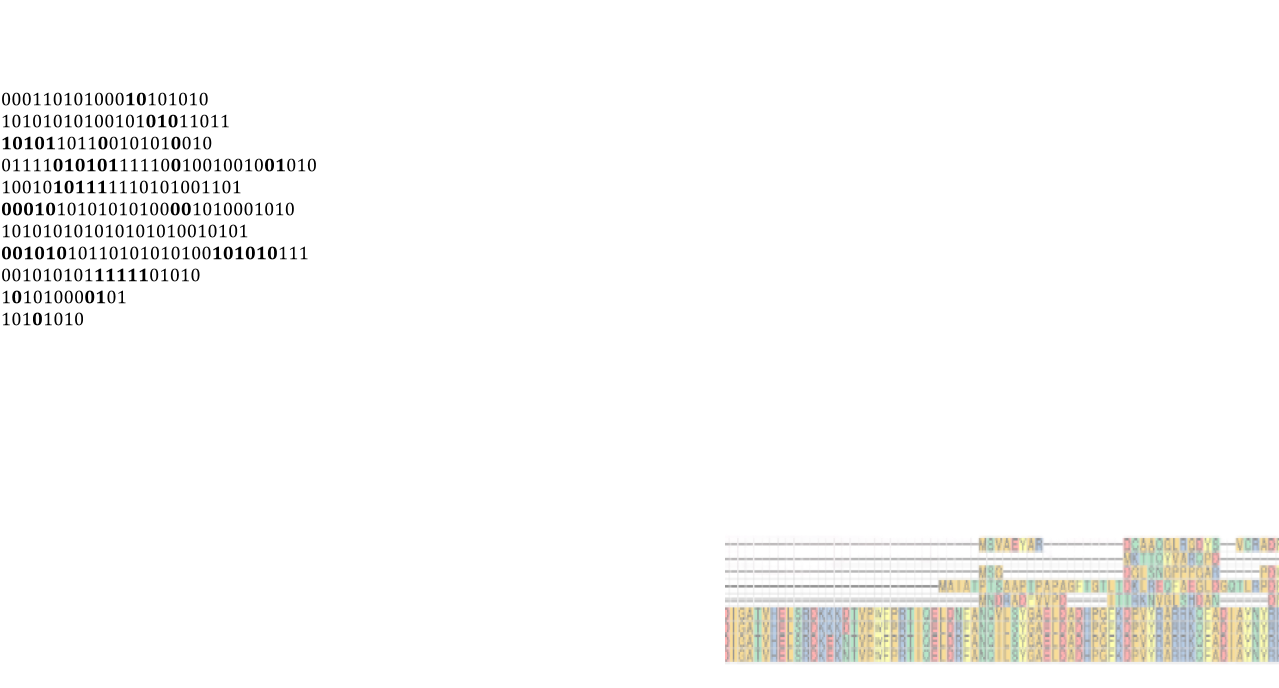
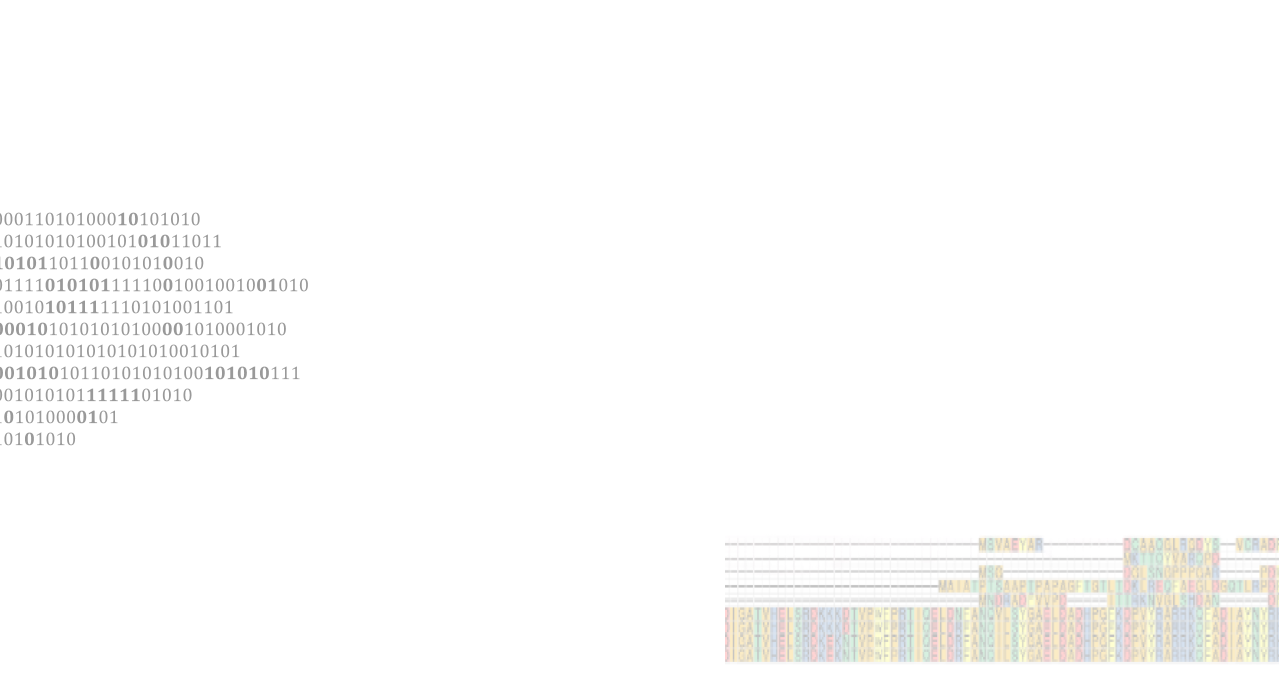
Data

Changed region(s): [[0.0, 0.1221, 0.2439, 0.641], [0.5489, 0.7631, 1.0, 0.9767]]

diff --git a/academic_prueba/public/index.html b/academic_prueba/public/index.html
@@ -677,7 +677,7 @@
   
   
 
-  <section id="demo" class="home-section wg-blank dark  bg-image parallax " style="background-image: linear-gradient(rgba(0, 0, 0, 0.6), rgba(0, 0, 0, 0.6)), url(&#39;/img/background_home_lbc.png&#39;);background-size: contain;background-position: center;padding: 0 0 0 0;" >
+  <section id="demo" class="home-section wg-blank dark  bg-image parallax " style="background-image: linear-gradient(rgba(0, 0, 0, 0.7), rgba(0, 0, 0, 0.7)), url(&#39;/img/background_home_lbc.png&#39;);background-size: contain;background-position: center;padding: 0 0 0 0;" >
     <div class="container">
       
 

diff --git a/academic_prueba/content/en/home/demo.md b/academic_prueba/content/en/home/demo.md
@@ -30,7 +30,7 @@ subtitle = ""
   
   # Background image.
   image = "background_home_lbc.png"  # Name of image in `static/img/`.
-  image_darken = 0.6  # Darken the image? Range 0-1 where 0 is transparent and 1 is opaque.
+  image_darken = 0.70  # Darken the image? Range 0-1 where 0 is transparent and 1 is opaque.
   image_size = "contain"  #  Options are `cover` (default), `contain`, or `actual` size.
   image_position = "center"  # Options include `left`, `center` (default), or `right`.
   image_parallax = true  # Use a fun parallax-like fixed background effect? true/false
